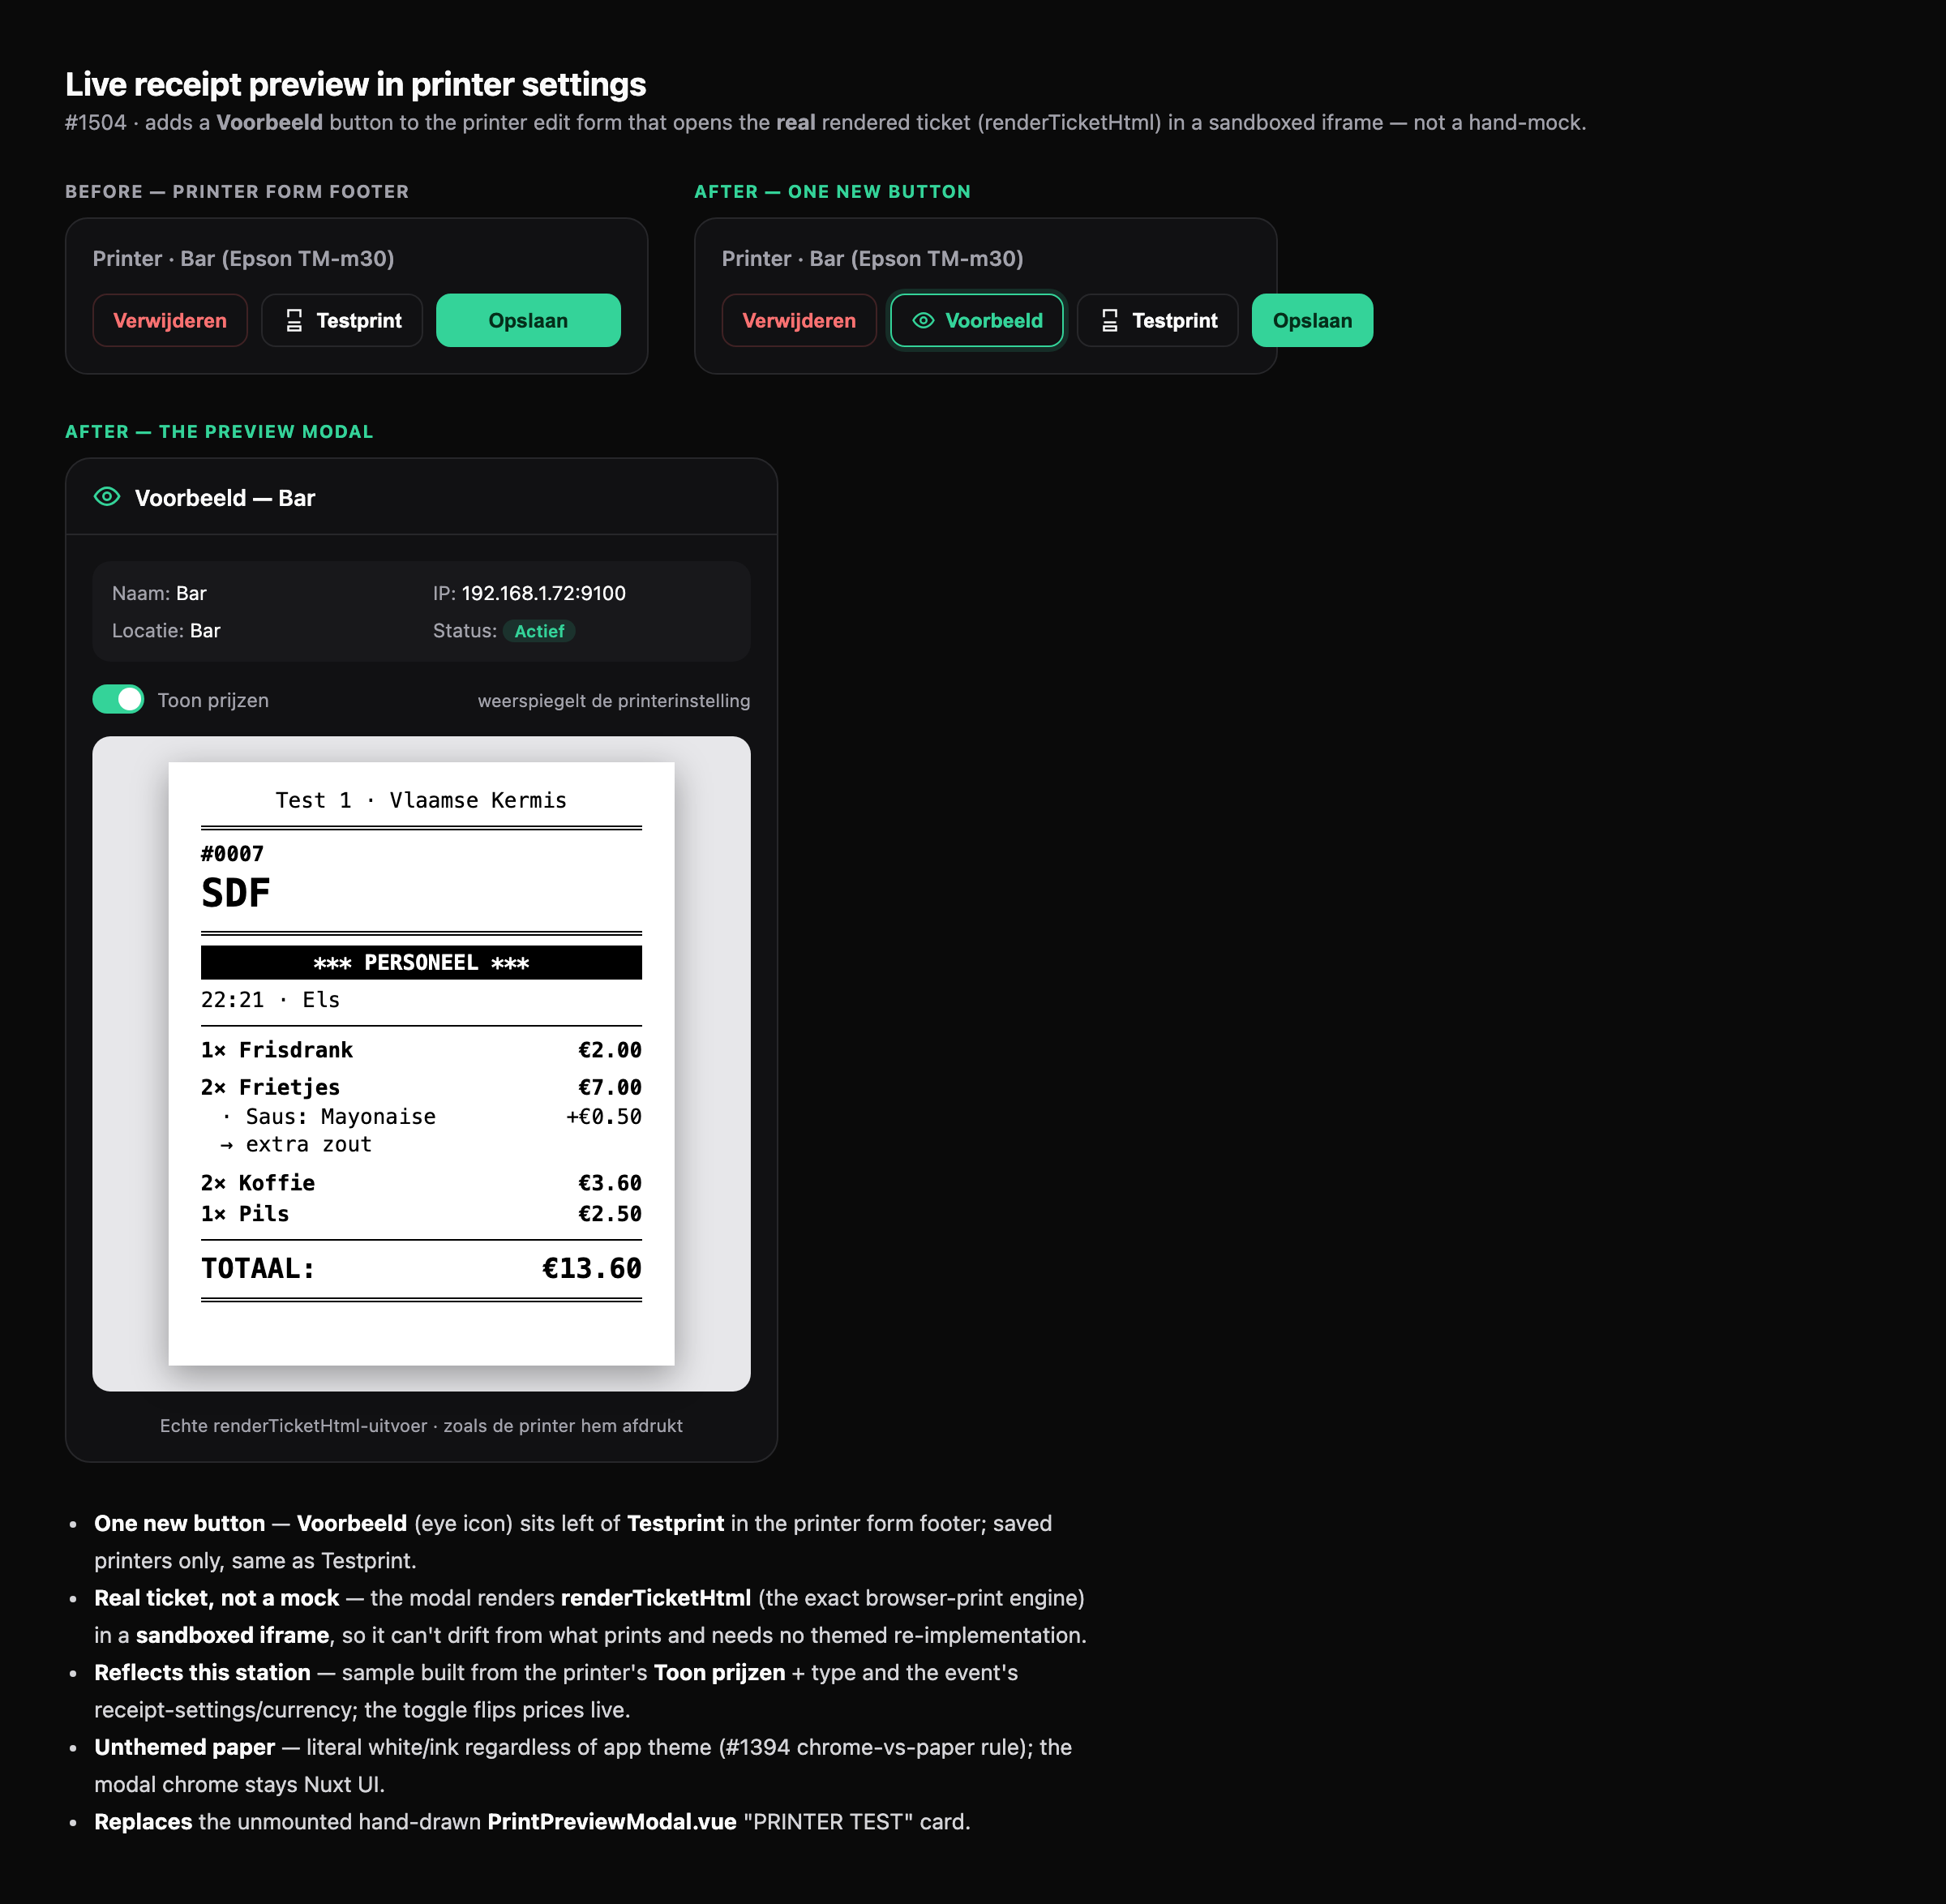
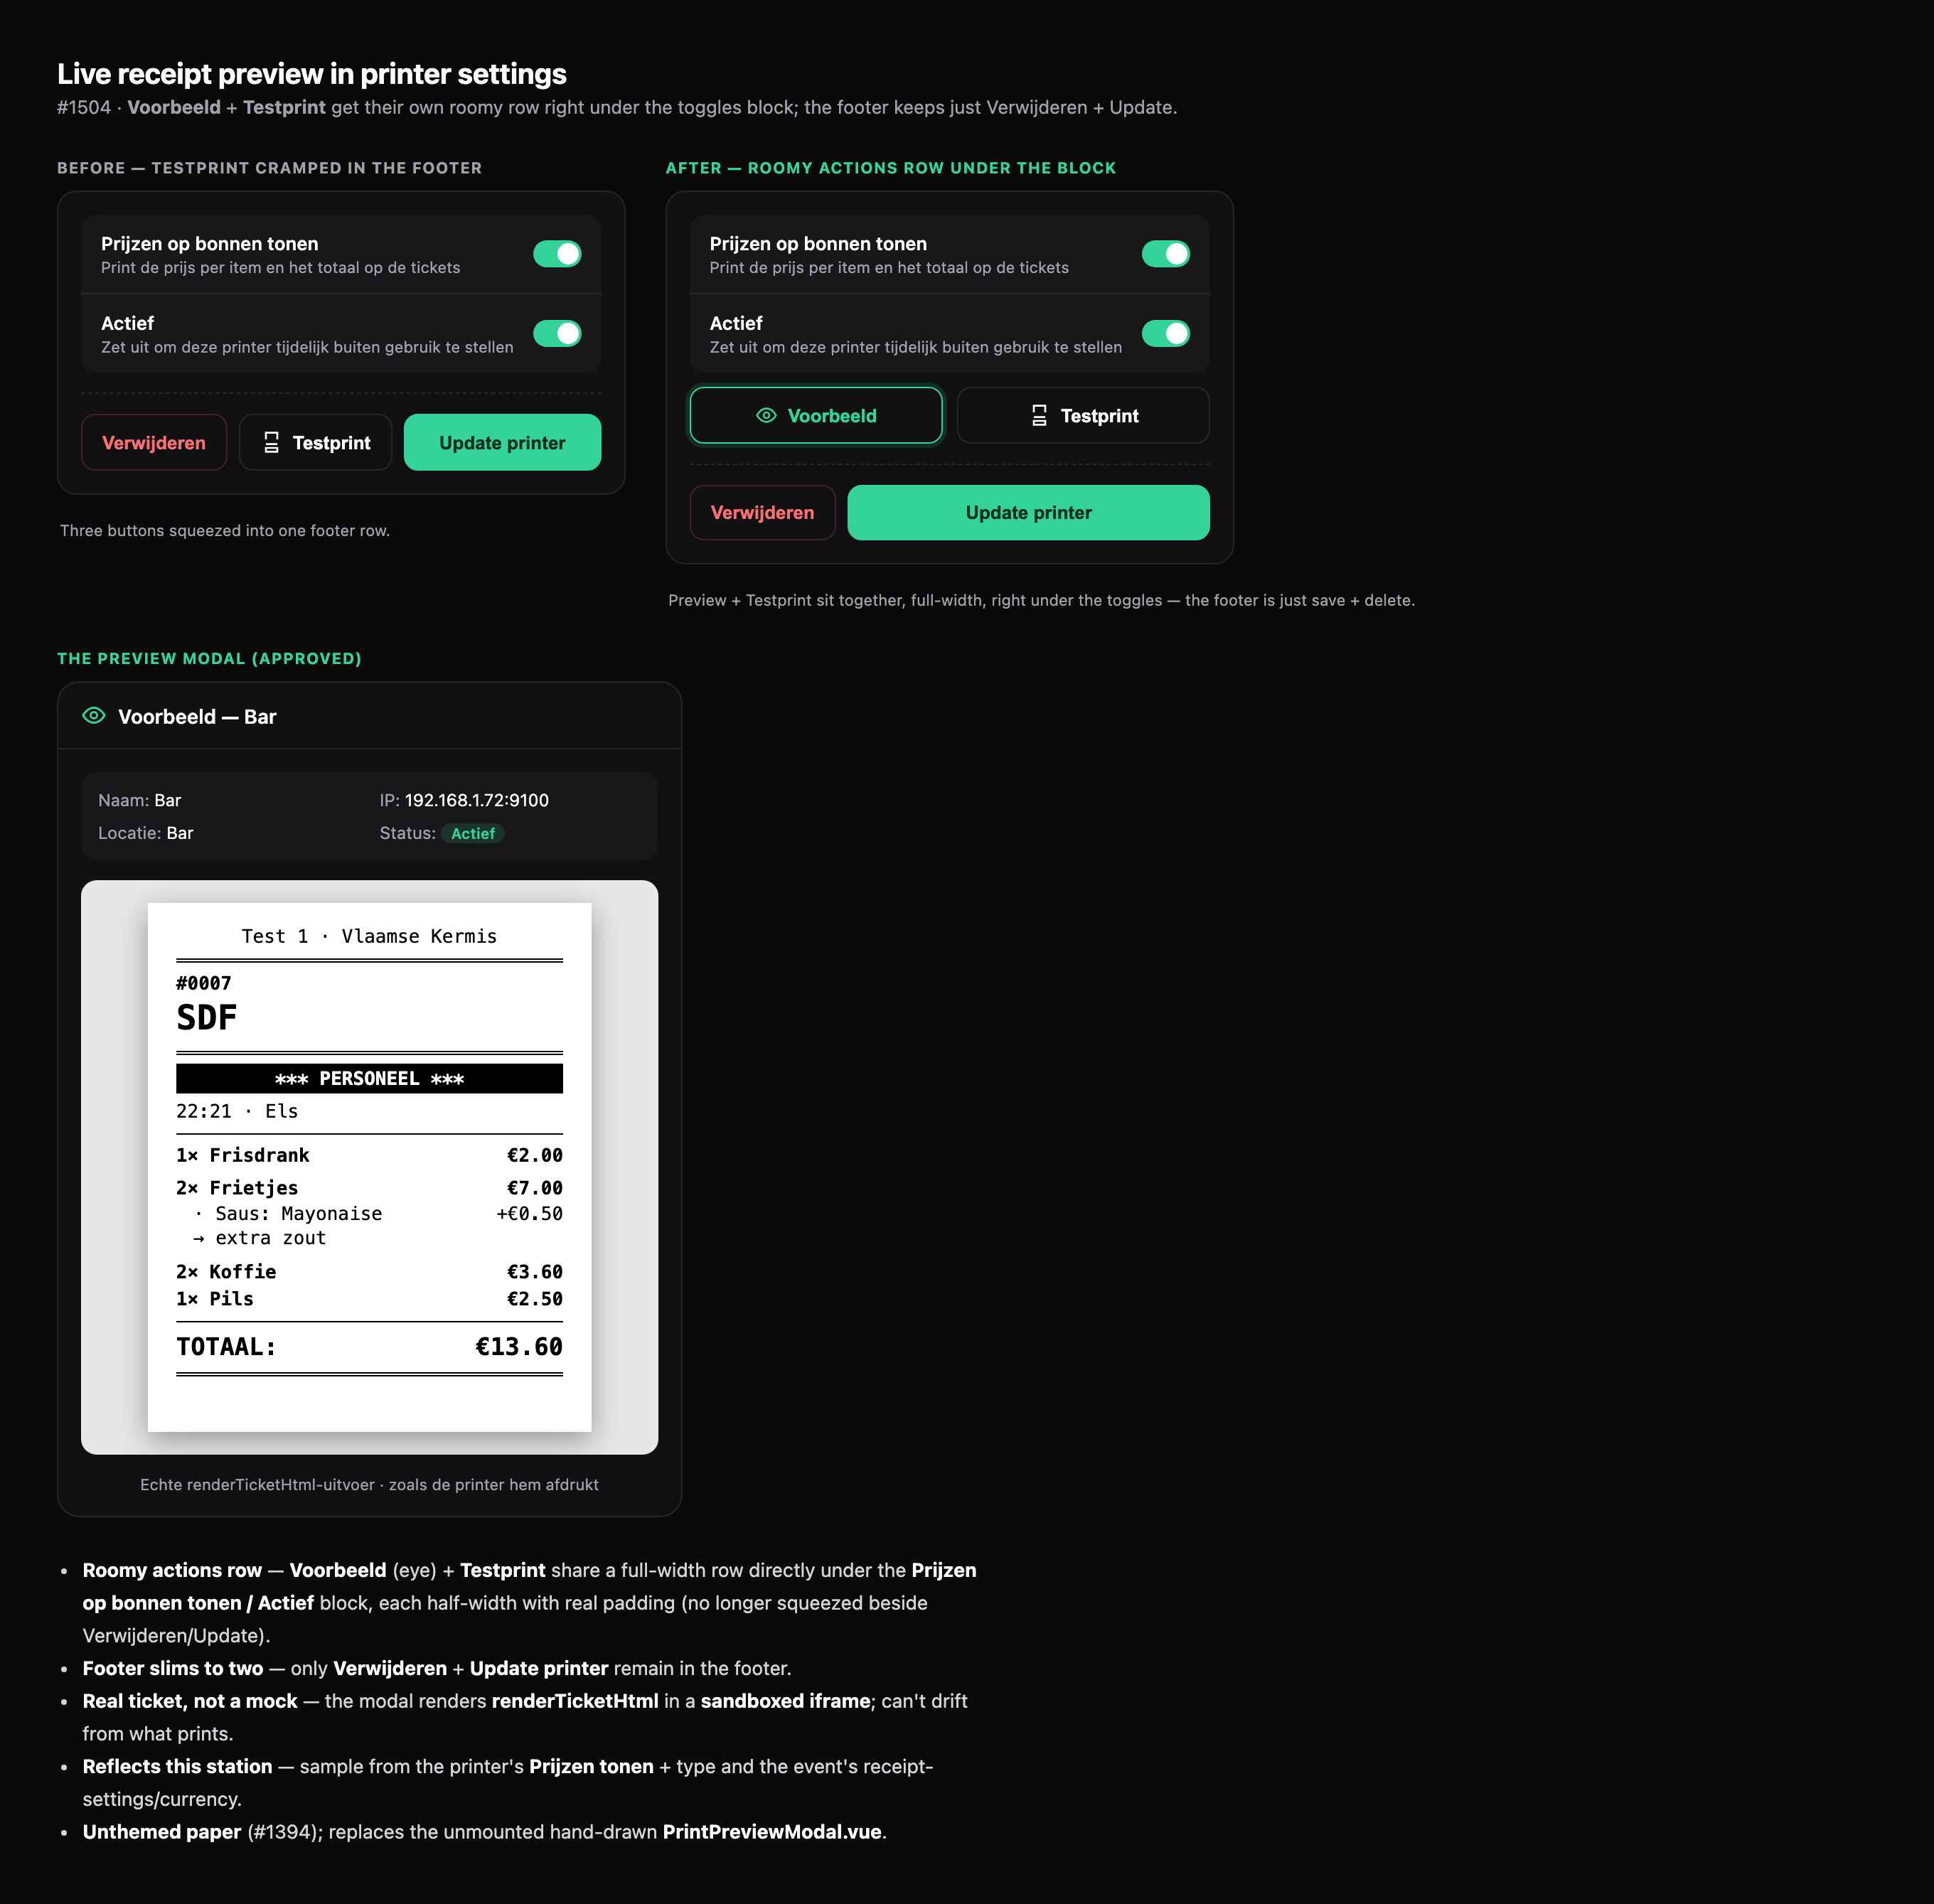
docs(crouton-sales): rev2 preview proposal — roomy actions row under toggles (#1504)
👤 For humans
Owner feedback: give Voorbeeld + Testprint more room. Moved them to their own
full-width row under the Prijzen/Actief block; footer slims to Verwijderen +
Update. Placement question resolved.

🤖 For agents
- Revised writeups/ui-proposals/receipt-preview-in-settings.{html,md,png}.
- Same raw URL → the sticky #1504 comment image re-renders on push.

diff --git a/writeups/ui-proposals/receipt-preview-in-settings.html b/writeups/ui-proposals/receipt-preview-in-settings.html
@@ -1,5 +1,5 @@
 <!doctype html><html lang="nl"><head><meta charset="utf-8"><title>Receipt preview in printer settings</title><style>
-  :root{--bg:#0a0a0a;--panel:#111113;--elevated:#18181b;--border:#27272a;--muted:#a1a1aa;--text:#fafafa;--primary:#34d399;--primary-ink:#052e1a;--warning:#fbbf24}
+  :root{--bg:#0a0a0a;--panel:#111113;--elevated:#18181b;--border:#27272a;--muted:#a1a1aa;--text:#fafafa;--primary:#34d399;--primary-ink:#052e1a}
   *{box-sizing:border-box}
   body{margin:0;background:var(--bg);color:var(--text);font-family:-apple-system,BlinkMacSystemFont,'Segoe UI',Roboto,sans-serif;padding:40px}
   h1{font-size:20px;margin:0 0 4px}
@@ -8,18 +8,26 @@
   .col{display:flex;flex-direction:column;gap:10px}
   .tag{font-size:11px;font-weight:700;letter-spacing:.06em;text-transform:uppercase;color:var(--muted)}
   .tag.new{color:var(--primary)}
-  .card{background:var(--panel);border:1px solid var(--border);border-radius:14px;padding:16px;width:360px}
-  .card h3{font-size:13px;margin:0 0 12px;color:var(--muted);font-weight:600}
-  .prow{display:flex;align-items:center;gap:10px;padding:9px 10px;border-radius:9px;background:var(--elevated);margin-bottom:6px}
-  .dot{width:8px;height:8px;border-radius:50%;background:var(--primary);flex:none}
-  .prow .t{font-size:13px}
-  .prow .s{font-size:11px;color:var(--muted);margin-left:auto}
-  .footer{display:flex;gap:8px;align-items:stretch;margin-top:14px}
-  .btn{display:inline-flex;align-items:center;gap:6px;font-size:12.5px;font-weight:600;border-radius:9px;padding:8px 12px;border:1px solid var(--border);background:transparent;color:var(--text);white-space:nowrap}
-  .btn svg{width:15px;height:15px}
+  .card{background:var(--panel);border:1px solid var(--border);border-radius:14px;padding:16px;width:400px}
+  .toggles{background:var(--elevated);border-radius:11px;overflow:hidden}
+  .trow{display:flex;align-items:center;gap:12px;padding:12px 14px}
+  .trow+.trow{border-top:1px solid var(--border)}
+  .trow .tt{font-size:13px;font-weight:600}
+  .trow .ts{font-size:11px;color:var(--muted);margin-top:2px}
+  .trow .txt{flex:1}
+  .sw{width:34px;height:19px;border-radius:20px;background:var(--primary);position:relative;flex:none}
+  .sw.off{background:#3f3f46}
+  .sw::after{content:'';position:absolute;top:2px;right:2px;width:15px;height:15px;border-radius:50%;background:#fff}
+  .sw.off::after{right:auto;left:2px}
+  .actions{display:flex;gap:10px;margin-top:10px}
+  .btn{display:inline-flex;align-items:center;justify-content:center;gap:7px;font-size:13px;font-weight:600;border-radius:10px;padding:11px 14px;border:1px solid var(--border);background:transparent;color:var(--text);white-space:nowrap}
+  .btn svg{width:16px;height:16px}
+  .btn.wide{flex:1}
+  .btn.hot{border-color:var(--primary);color:var(--primary);box-shadow:0 0 0 3px rgba(52,211,153,.15)}
+  .footer{display:flex;gap:8px;align-items:stretch;margin-top:14px;padding-top:14px;border-top:1px dashed var(--border)}
   .btn.del{color:#f87171;border-color:#3f2224}
   .btn.save{flex:1;justify-content:center;background:var(--primary);color:var(--primary-ink);border-color:var(--primary)}
-  .btn.hot{border-color:var(--primary);color:var(--primary);box-shadow:0 0 0 3px rgba(52,211,153,.15)}
+  .caption{font-size:11px;color:var(--muted);margin:8px 2px 0}
   .modal{width:440px;background:var(--panel);border:1px solid var(--border);border-radius:16px;overflow:hidden}
   .modal .mh{display:flex;align-items:center;gap:8px;padding:14px 16px;border-bottom:1px solid var(--border);font-weight:600;font-size:14px}
   .modal .mh svg{width:18px;height:18px;color:var(--primary)}
@@ -27,44 +35,52 @@
   .info{background:var(--elevated);border-radius:11px;padding:12px;display:grid;grid-template-columns:1fr 1fr;gap:8px 14px;font-size:12px}
   .info .k{color:var(--muted)}
   .info .badge{display:inline-block;font-size:10.5px;font-weight:600;padding:1px 7px;border-radius:20px;background:rgba(52,211,153,.14);color:var(--primary)}
-  .toggle{display:flex;align-items:center;gap:8px;font-size:12px;color:var(--muted)}
-  .sw{width:32px;height:18px;border-radius:20px;background:var(--primary);position:relative;flex:none}
-  .sw::after{content:'';position:absolute;top:2px;right:2px;width:14px;height:14px;border-radius:50%;background:#fff}
   .paperwrap{background:#e7e7ea;border-radius:11px;padding:16px;display:flex;justify-content:center}
   .paper{width:312px;background:#fff;box-shadow:0 6px 20px rgba(0,0,0,.35)}
   iframe{width:312px;height:372px;border:0;display:block;background:#fff}
   .note{font-size:11px;color:var(--muted);text-align:center}
-  ul.changes{margin:26px 0 0;padding-left:18px;max-width:640px;line-height:1.7;font-size:13.5px;color:#d4d4d8}
+  ul.changes{margin:26px 0 0;padding-left:18px;max-width:660px;line-height:1.7;font-size:13.5px;color:#d4d4d8}
   ul.changes b{color:var(--text)}
+  .toggles-hdr{font-size:11px;color:var(--muted);margin:0 0 8px 2px}
 </style></head><body>
   <h1>Live receipt preview in printer settings</h1>
-  <p class="sub">#1504 · adds a <b>Voorbeeld</b> button to the printer edit form that opens the <b>real</b> rendered ticket (renderTicketHtml) in a sandboxed iframe — not a hand-mock.</p>
+  <p class="sub">#1504 · <b>Voorbeeld</b> + <b>Testprint</b> get their own roomy row right under the toggles block; the footer keeps just Verwijderen + Update.</p>
   <div class="stage">
     <div class="col">
-      <span class="tag">Before — printer form footer</span>
+      <span class="tag">Before — Testprint cramped in the footer</span>
       <div class="card">
-        <h3>Printer · Bar (Epson TM-m30)</h3>
+        <div class="toggles">
+          <div class="trow"><div class="txt"><div class="tt">Prijzen op bonnen tonen</div><div class="ts">Print de prijs per item en het totaal op de tickets</div></div><span class="sw"></span></div>
+          <div class="trow"><div class="txt"><div class="tt">Actief</div><div class="ts">Zet uit om deze printer tijdelijk buiten gebruik te stellen</div></div><span class="sw"></span></div>
+        </div>
         <div class="footer">
           <button class="btn del">Verwijderen</button>
           <button class="btn"><svg viewBox='0 0 24 24' fill='none' stroke='currentColor' stroke-width='2'><path d='M6 9V2h12v7M6 18h12v4H6zM6 14h12'/></svg>Testprint</button>
-          <button class="btn save">Opslaan</button>
+          <button class="btn save">Update printer</button>
         </div>
       </div>
+      <div class="caption">Three buttons squeezed into one footer row.</div>
     </div>
     <div class="col">
-      <span class="tag new">After — one new button</span>
+      <span class="tag new">After — roomy actions row under the block</span>
       <div class="card">
-        <h3>Printer · Bar (Epson TM-m30)</h3>
+        <div class="toggles">
+          <div class="trow"><div class="txt"><div class="tt">Prijzen op bonnen tonen</div><div class="ts">Print de prijs per item en het totaal op de tickets</div></div><span class="sw"></span></div>
+          <div class="trow"><div class="txt"><div class="tt">Actief</div><div class="ts">Zet uit om deze printer tijdelijk buiten gebruik te stellen</div></div><span class="sw"></span></div>
+        </div>
+        <div class="actions">
+          <button class="btn wide hot"><svg viewBox='0 0 24 24' fill='none' stroke='currentColor' stroke-width='2'><path d='M2 12s3.5-7 10-7 10 7 10 7-3.5 7-10 7S2 12 2 12z'/><circle cx='12' cy='12' r='3'/></svg>Voorbeeld</button>
+          <button class="btn wide"><svg viewBox='0 0 24 24' fill='none' stroke='currentColor' stroke-width='2'><path d='M6 9V2h12v7M6 18h12v4H6zM6 14h12'/></svg>Testprint</button>
+        </div>
         <div class="footer">
           <button class="btn del">Verwijderen</button>
-          <button class="btn hot"><svg viewBox='0 0 24 24' fill='none' stroke='currentColor' stroke-width='2'><path d='M2 12s3.5-7 10-7 10 7 10 7-3.5 7-10 7S2 12 2 12z'/><circle cx='12' cy='12' r='3'/></svg>Voorbeeld</button>
-          <button class="btn"><svg viewBox='0 0 24 24' fill='none' stroke='currentColor' stroke-width='2'><path d='M6 9V2h12v7M6 18h12v4H6zM6 14h12'/></svg>Testprint</button>
-          <button class="btn save">Opslaan</button>
+          <button class="btn save">Update printer</button>
         </div>
       </div>
+      <div class="caption">Preview + Testprint sit together, full-width, right under the toggles — the footer is just save + delete.</div>
     </div>
     <div class="col">
-      <span class="tag new">After — the preview modal</span>
+      <span class="tag new">The preview modal (approved)</span>
       <div class="modal">
         <div class="mh"><svg viewBox='0 0 24 24' fill='none' stroke='currentColor' stroke-width='2'><path d='M2 12s3.5-7 10-7 10 7 10 7-3.5 7-10 7S2 12 2 12z'/><circle cx='12' cy='12' r='3'/></svg>Voorbeeld — Bar</div>
         <div class="mb">
@@ -74,7 +90,6 @@
             <div><span class="k">Locatie:</span> Bar</div>
             <div><span class="k">Status:</span> <span class="badge">Actief</span></div>
           </div>
-          <div class="toggle"><span class="sw"></span> Toon prijzen <span style="margin-left:auto;font-size:11px">weerspiegelt de printerinstelling</span></div>
           <div class="paperwrap"><div class="paper"><iframe title="ticket" srcdoc="<style>
 @page { size: 80mm auto; margin: 0; }
 * { box-sizing: border-box; }
@@ -102,10 +117,10 @@ body { width: 80mm; margin: 0 auto; padding: 4mm; font: 13px/1.35 'Menlo','Conso
     </div>
   </div>
   <ul class="changes">
-    <li><b>One new button</b> — <b>Voorbeeld</b> (eye icon) sits left of <b>Testprint</b> in the printer form footer; saved printers only, same as Testprint.</li>
-    <li><b>Real ticket, not a mock</b> — the modal renders <b>renderTicketHtml</b> (the exact browser-print engine) in a <b>sandboxed iframe</b>, so it can't drift from what prints and needs no themed re-implementation.</li>
-    <li><b>Reflects this station</b> — sample built from the printer's <b>Toon prijzen</b> + type and the event's receipt-settings/currency; the toggle flips prices live.</li>
-    <li><b>Unthemed paper</b> — literal white/ink regardless of app theme (#1394 chrome-vs-paper rule); the modal chrome stays Nuxt UI.</li>
-    <li><b>Replaces</b> the unmounted hand-drawn <b>PrintPreviewModal.vue</b> "PRINTER TEST" card.</li>
+    <li><b>Roomy actions row</b> — <b>Voorbeeld</b> (eye) + <b>Testprint</b> share a full-width row directly under the <b>Prijzen op bonnen tonen / Actief</b> block, each half-width with real padding (no longer squeezed beside Verwijderen/Update).</li>
+    <li><b>Footer slims to two</b> — only <b>Verwijderen</b> + <b>Update printer</b> remain in the footer.</li>
+    <li><b>Real ticket, not a mock</b> — the modal renders <b>renderTicketHtml</b> in a <b>sandboxed iframe</b>; can't drift from what prints.</li>
+    <li><b>Reflects this station</b> — sample from the printer's <b>Prijzen tonen</b> + type and the event's receipt-settings/currency.</li>
+    <li><b>Unthemed paper</b> (#1394); replaces the unmounted hand-drawn <b>PrintPreviewModal.vue</b>.</li>
   </ul>
 </body></html>

diff --git a/writeups/ui-proposals/receipt-preview-in-settings.md b/writeups/ui-proposals/receipt-preview-in-settings.md
@@ -1,19 +1,22 @@
 # UI proposal — live receipt preview in printer settings (#1504)
 
-Net-new UI: a **Voorbeeld** button in the printer edit form that opens a modal showing the
-**real** rendered ticket. Mockup: `receipt-preview-in-settings.png` (the ticket in the modal is
-actual `renderTicketHtml` output, embedded in a sandboxed iframe).
+Net-new UI: a **Voorbeeld** button that opens a modal showing the **real** rendered ticket.
+Mockup: `receipt-preview-in-settings.png` (the ticket in the modal is actual `renderTicketHtml`
+output, embedded in a sandboxed iframe).
 
 ## What changes
 
-- **One new button** — `Voorbeeld` (eye icon) sits left of `Testprint` in the printer form footer (`PrinterForm.vue`); saved printers only, same gate as Testprint.
-- **Real ticket, not a mock** — the modal renders `renderTicketHtml` (the exact browser-print engine) in a **sandboxed iframe**, so the preview can never drift from what prints and needs no themed re-implementation.
-- **Reflects this station** — the sample `ReceiptData` is built from the printer's `Toon prijzen` + `type` and the event's receipt-settings/currency; the `Toon prijzen` toggle flips prices (and the total) live.
-- **Unthemed paper** — literal white paper / black ink regardless of app theme (#1394 chrome-vs-paper rule); the modal chrome stays Nuxt UI.
+- **Roomy actions row** — `Voorbeeld` (eye) + `Testprint` share a full-width row directly under the `Prijzen op bonnen tonen / Actief` block, each half-width with real padding — no longer squeezed beside Verwijderen/Update (owner feedback, rev 2).
+- **Footer slims to two** — only `Verwijderen` + `Update printer` stay in the footer.
+- **Real ticket, not a mock** — the modal renders `renderTicketHtml` (the exact browser-print engine) in a **sandboxed iframe**, so the preview can never drift from what prints.
+- **Reflects this station** — the sample `ReceiptData` is built from the printer's `Prijzen tonen` + `type` and the event's receipt-settings/currency.
+- **Unthemed paper** — literal white/ink regardless of app theme (#1394 chrome-vs-paper rule); the modal chrome stays Nuxt UI.
 - **Replaces** the unmounted, hand-drawn `PrintPreviewModal.vue` "PRINTER TEST" card.
+
+## Resolved
+- **Placement** → roomy row under the toggles block (owner, rev 2).
 
 ## Open questions for the reviewer
 
-1. **Placement** — button in the form footer (as drawn), or on each printer **row** in the printers list (hover action) so you can preview without opening the form? Drawn: footer.
-2. **Sample items** — fixed representative basket (as drawn: a drink + a detailed item + two plain), or pull a few **real recent order lines** for this event so it looks like your actual menu? Drawn: fixed sample.
-3. **Kitchen vs receipt** — a receipt-type printer previews the `receipt` layout (footer text, `Client:` line); a kitchen printer previews the `kitchen` call-out. Preview both modes, or just the printer's own type? Drawn: the printer's own type.
+1. **Sample items** — fixed representative basket (as drawn: a drink + a detailed item + two plain), or pull a few **real recent order lines** for this event so it looks like your actual menu? Drawn: fixed sample.
+2. **Kitchen vs receipt** — a receipt-type printer previews the `receipt` layout (footer text, `Client:` line); a kitchen printer previews the `kitchen` call-out. Preview both modes, or just the printer's own type? Drawn: the printer's own type.